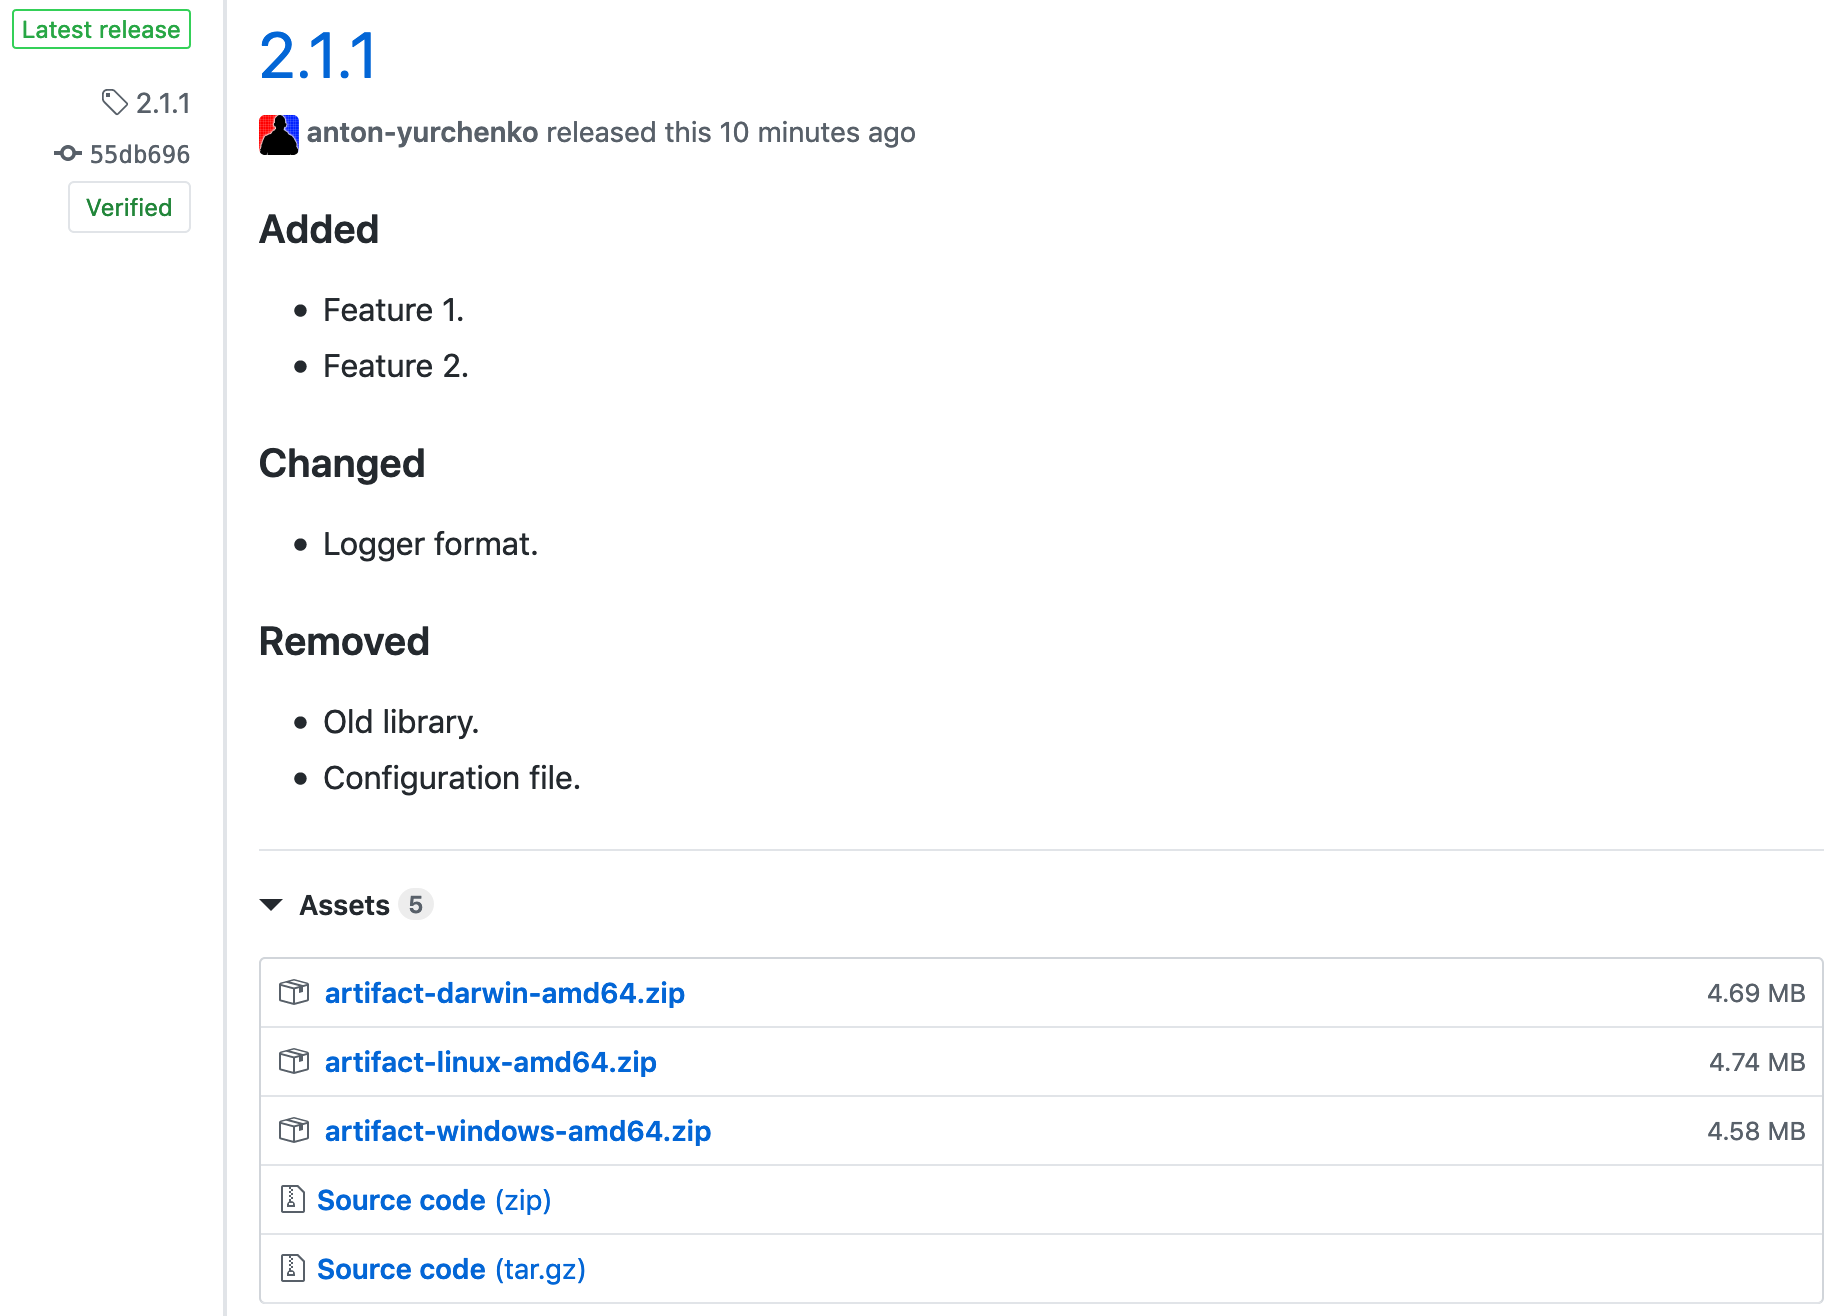
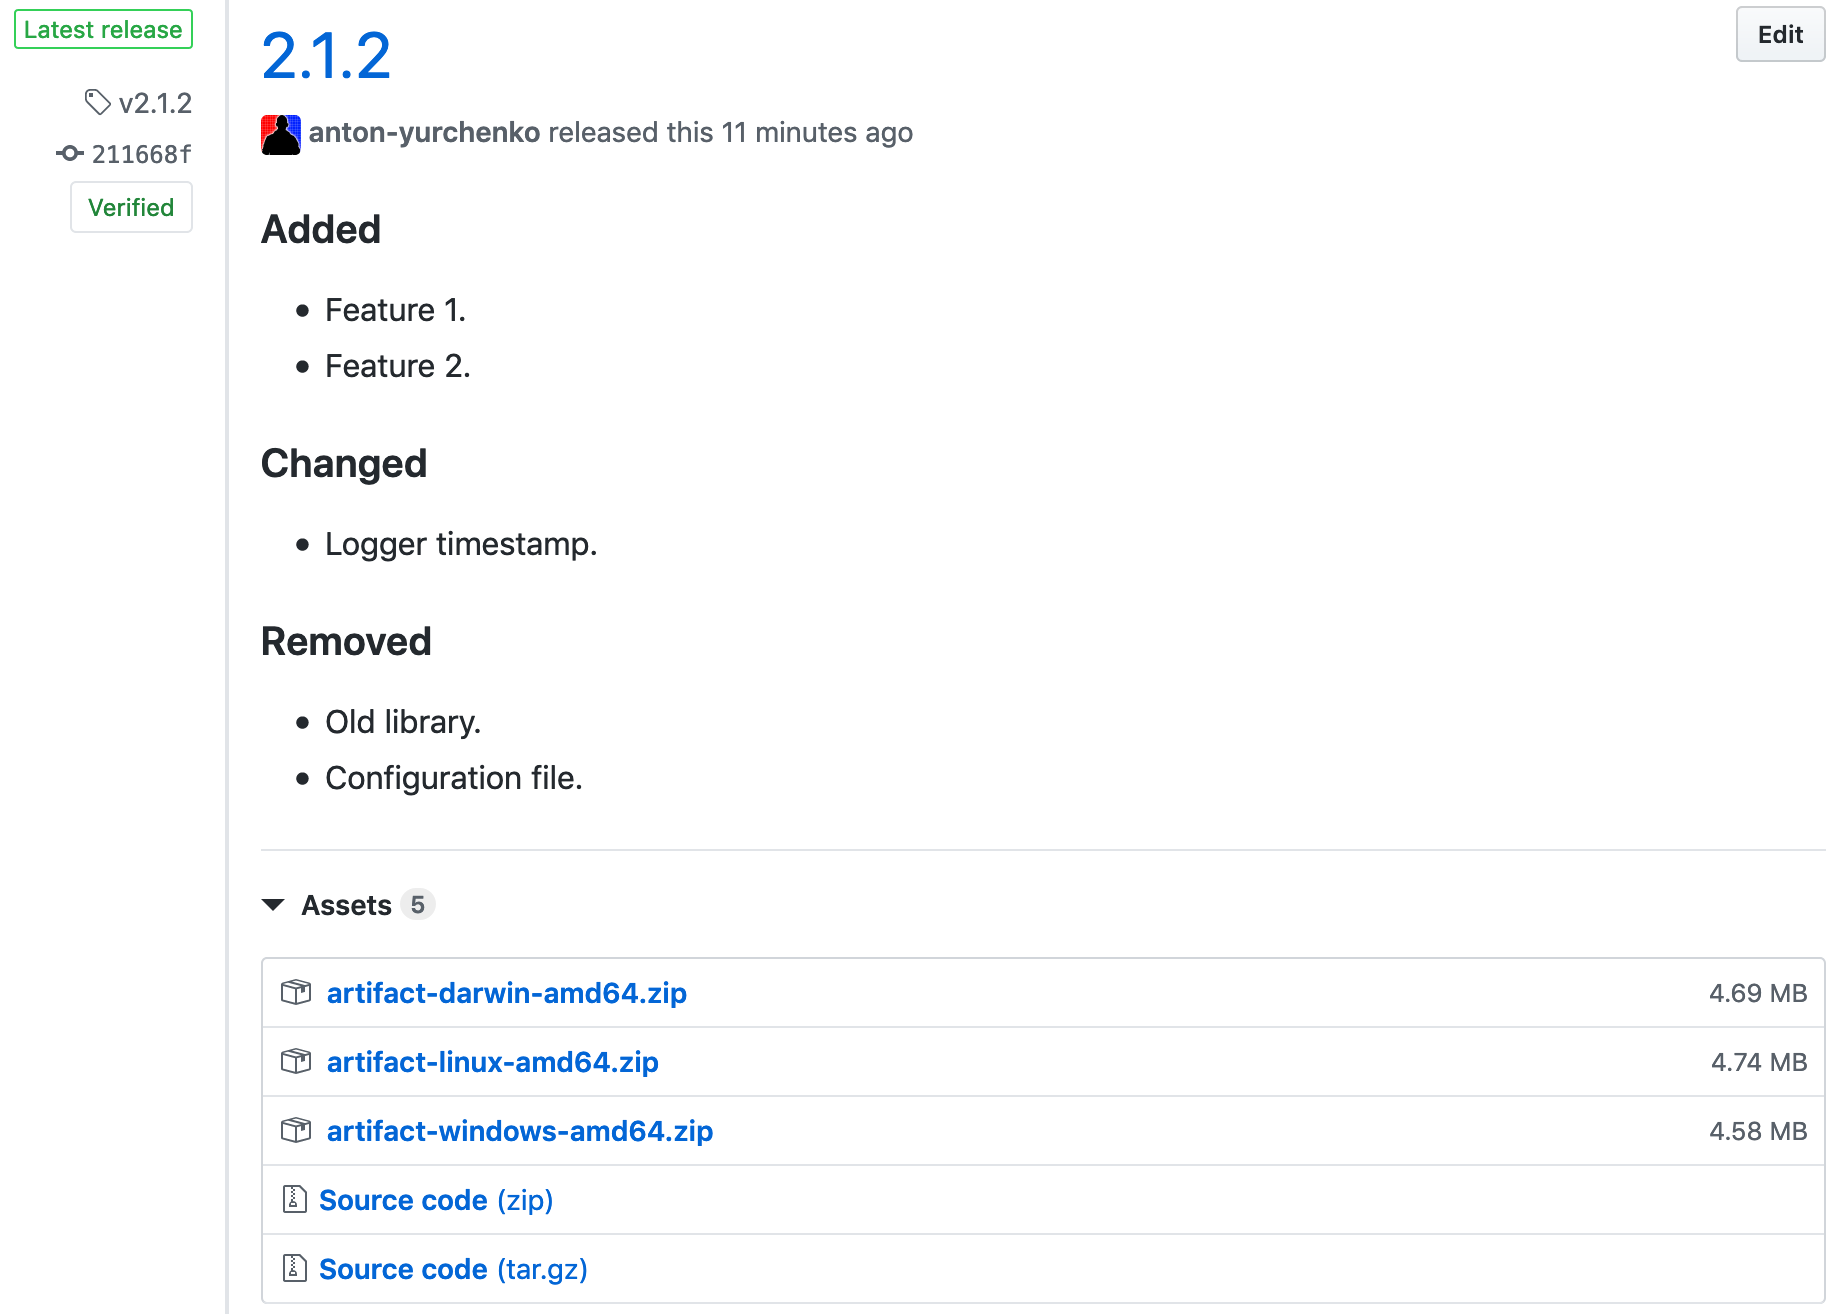
docs: update release images

diff --git a/README.md b/README.md
@@ -6,20 +6,20 @@ A GitHub Action for creating a new GitHub Release with Assets and Changelog when
 ![PIC](docs/images/release.png)
 
 ## Features:
-- Parse Tag to match Semantic Versioning (for example: 2.8.1).  
+- Parse Tag to match Semantic Versioning.  
 - Upload build artifacts (assets) to the release.  
 - Add changelog to the release.  
 
 ## Manual:
 1. Add your changes to **CHANGELOG.md** in the following format (according to [keepachangelog.com](https://keepachangelog.com/en/1.0.0/ "Keep a ChangeLog")):
 ```
-## [2.1.1] - 2019-09-29
+## [2.1.2] - 2019-10-01
 ### Added
 - Feature 1.
 - Feature 2.
 
 ### Changed
-- Logger format.
+- Logger timestamp.
 
 ### Removed
 - Old library.
